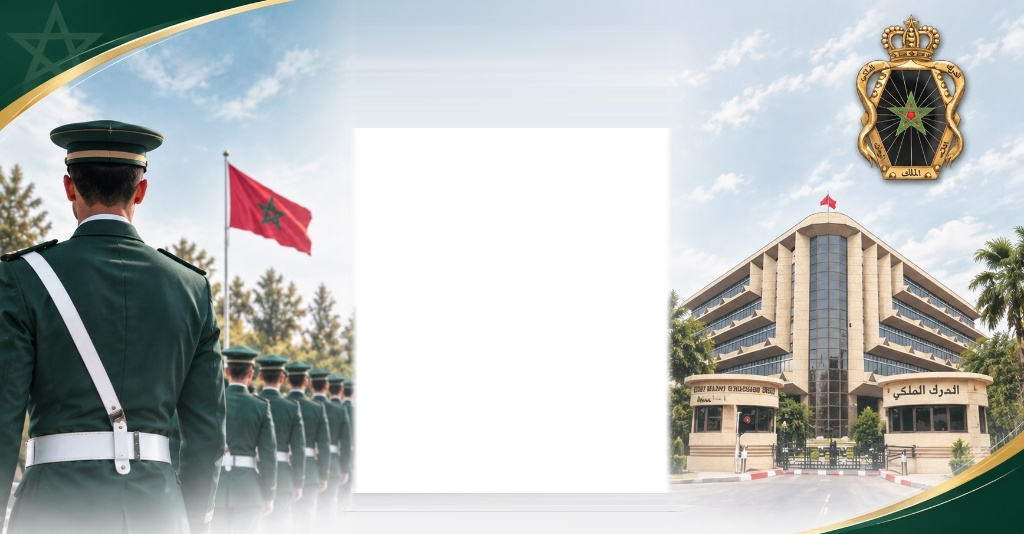
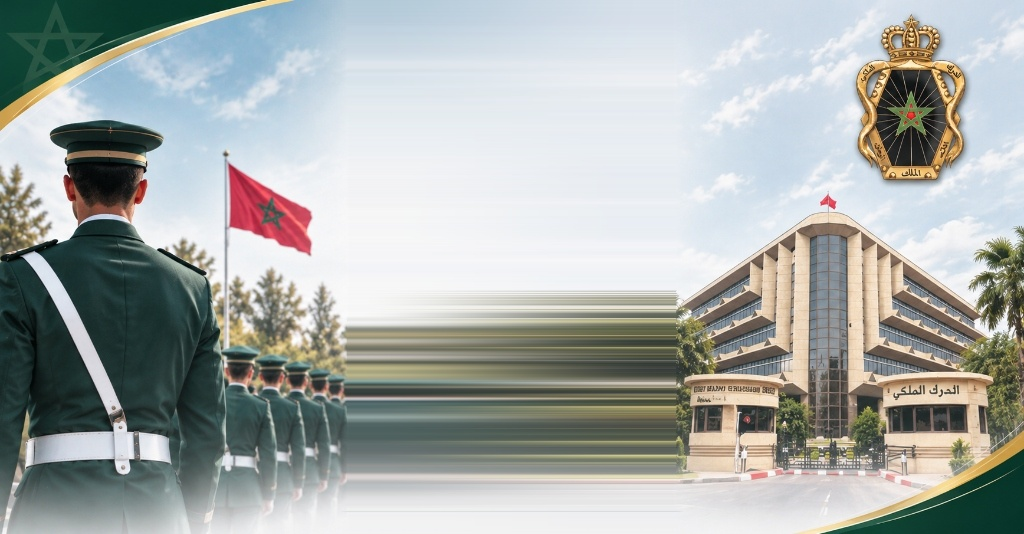
fix(auth): suppression totale du bloc blanc derriere la carte et affichage naturel de l image sur 100 pour cent de la page

Changed region(s): [[0.3438, 0.5393, 0.6562, 0.9288], [0.5938, 0.2996, 0.6562, 0.3296]]

diff --git a/frontend/src/pages/public/LoginPage.jsx b/frontend/src/pages/public/LoginPage.jsx
@@ -162,21 +162,21 @@ export default function LoginPage() {
 
   return (
     <div 
-      className="min-h-screen bg-cover bg-center bg-no-repeat flex flex-col justify-center items-center py-4 sm:py-6 px-4 sm:px-6 relative overflow-x-hidden selection:bg-gold/30"
+      className="min-h-screen bg-cover bg-center bg-no-repeat flex flex-col justify-center items-center py-4 sm:py-6 px-4 sm:px-6 relative overflow-x-hidden selection:bg-gold/30 bg-transparent"
       style={{
-        backgroundImage: `url('/images/login-bg.webp?v=20261115_v3')`,
-        backgroundColor: '#F7F8F5'
+        backgroundImage: `url('/images/login-bg.webp?v=20261115_natural')`,
+        backgroundColor: 'transparent'
       }}
     >
       {/* En-tête officiel centré au-dessus de la carte */}
-      <div className="w-full max-w-md mx-auto text-center mb-2.5">
+      <div className="w-full max-w-md mx-auto text-center mb-2.5 bg-transparent">
         {/* Blason / Écusson Vert Gendarmerie avec bordure or */}
         <div className="mx-auto w-11 h-11 sm:w-12 sm:h-12 rounded-2xl bg-[#153B2B] flex items-center justify-center border-2 border-gold/70 shadow-md mb-2">
           <Shield className="w-5 h-5 sm:w-6 sm:h-6 text-gold" />
         </div>
 
         {/* Badge Pilule institutionnel */}
-        <div className="inline-flex items-center px-3 py-1 rounded-full bg-white/95 border border-slate-200/90 text-[10px] sm:text-[11px] font-bold tracking-widest text-slate-700 uppercase mb-1.5 shadow-2xs backdrop-blur-xs">
+        <div className="inline-flex items-center px-3 py-1 rounded-full bg-white/95 border border-slate-200/90 text-[10px] sm:text-[11px] font-bold tracking-widest text-slate-700 uppercase mb-1.5 shadow-2xs">
           ROYAUME DU MAROC • GENDARMERIE ROYALE
         </div>
 
@@ -191,8 +191,8 @@ export default function LoginPage() {
         </p>
       </div>
 
-      {/* Carte centrale d'authentification */}
-      <div className="w-full max-w-[460px] md:max-w-[480px] mx-auto bg-white rounded-2xl sm:rounded-3xl shadow-xl border border-slate-200/90 p-5 sm:p-6 backdrop-blur-xs">
+      {/* Unique carte centrale d'authentification */}
+      <div className="w-full max-w-[460px] md:max-w-[480px] mx-auto bg-white rounded-2xl sm:rounded-3xl shadow-xl border border-slate-200/90 p-5 sm:p-6">
         
         {/* Sélecteur d'espace sous forme d'onglets (Espace Élève / Encadrement) */}
         <div className="bg-slate-100 p-1 rounded-xl flex items-center gap-1 mb-3.5">
